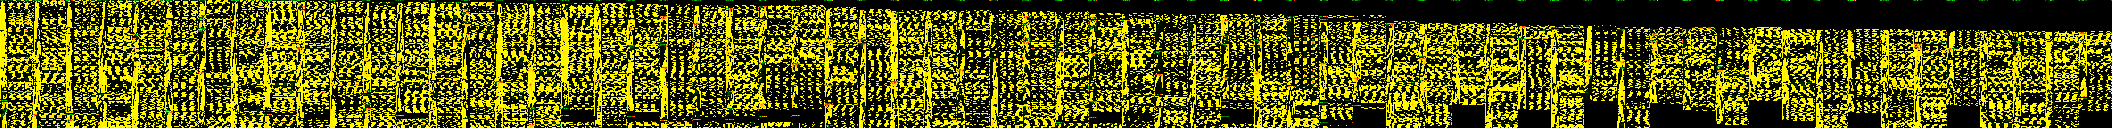
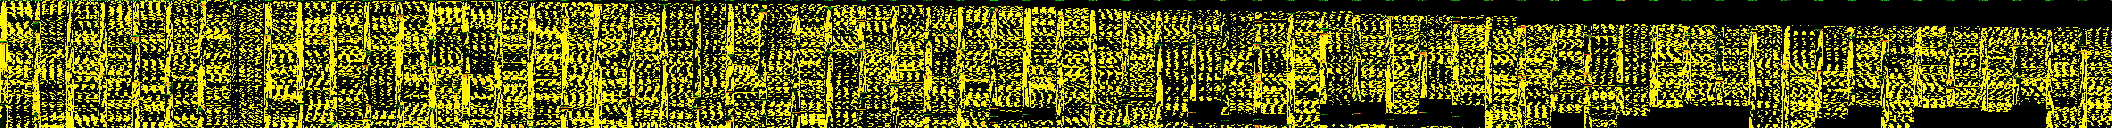
fit the aurora under the bar by inverting the bar overlay

diff --git a/tools/login/fit_aurora.py b/tools/login/fit_aurora.py
@@ -8,7 +8,8 @@ d = perpendicular distance to the centreline y = Y_i(x); Y_i and the per-channel
 A_i(x) are cubic B-splines over x (aurora_common.KX control points)."""
 import sys, os, time, numpy as np, scipy.sparse.linalg as spl, cv2
 sys.path.insert(0, os.path.dirname(os.path.abspath(__file__)))
-from aurora_common import XS, YS, KX, BXH, DXH, mask_half, load_half
+from aurora_common import XS, YS, KX, BXH, DXH, mask_half, load_half, fit_target, to_half
+from concurrent.futures import ProcessPoolExecutor
 from bspline import basis, laplacian, NX, NY
 
 args = sys.argv[1:]
@@ -35,13 +36,17 @@ LAP = laplacian()
 LT = (LAP.T @ LAP)
 
 
-def fit_coarse(img, m):
-    """img: (360,480,3) float, m: (360,480) bool -> grid (NY,NX,3)"""
-    q = img.reshape(180, 2, 240, 2, 3).mean((1, 3)).reshape(-1, 3)
-    mq = m.reshape(180, 2, 240, 2).all((1, 3)).ravel()
-    Bm = B4[mq]
-    solve = spl.factorized((Bm.T @ Bm + 0.02 * LT).tocsc())
-    return np.stack([solve(Bm.T @ q[mq, c]) for c in range(3)], -1).reshape(NY, NX, 3)
+def fit_coarse(img, w):
+    """img: (360,480,3) float, w: (360,480) weights in 0..1 -> grid (NY,NX,3)"""
+    w4 = w.reshape(180, 2, 240, 2)
+    ws = w4.sum((1, 3))
+    q = ((img.reshape(180, 2, 240, 2, 3) * w4[..., None]).sum((1, 3)) / np.maximum(ws, 1e-6)[..., None]).reshape(-1, 3)
+    wq = (ws / 4).ravel()
+    sel = wq > 1e-4
+    Bm = B4[sel]
+    Bw = Bm.multiply(wq[sel][:, None]).tocsr()
+    solve = spl.factorized((Bw.T @ Bm + 0.02 * LT).tocsc())
+    return np.stack([solve(Bw.T @ q[sel, c]) for c in range(3)], -1).reshape(NY, NX, 3)
 
 
 def eval_coarse(grid):
@@ -156,7 +161,7 @@ def ridge_map(r, W):
     # orientation: eigenvector of lmin; keep near-horizontal lines (|angle| < 50 deg)
     ang = 0.5 * np.arctan2(2 * rxy, rxx - ryy)    # orientation of the max-curvature axis
     horiz = np.abs(np.cos(ang)) < np.cos(np.radians(40))  # curvature axis mostly vertical
-    resp = resp * horiz * cv2.erode(W.astype(np.uint8), np.ones((5, 5), np.uint8))
+    resp = resp * horiz * cv2.erode((W > 0.5).astype(np.uint8), np.ones((5, 5), np.uint8))
     return resp, rs
 
 
@@ -247,9 +252,16 @@ def greedy_add(R, T, W, max_new, thr):
     return added
 
 
+TW = {}  # key -> (target, weight) at half res (see aurora_common.fit_target)
+
+
+def prep(n):
+    t, w = to_half(*fit_target(n))
+    return n, t.astype(np.float32), w.astype(np.float32)
+
+
 def fit_key(n, R, coarse_grid, prior_R, grow=True):
-    f = np.asarray(half[n - 1], np.float32)
-    W = mask_half(n).astype(np.float32)
+    f, W = TW[n]
     base = eval_coarse(coarse_grid)
     T = f - base
     T_all = T - render_all(R)
@@ -295,9 +307,13 @@ def fit_key(n, R, coarse_grid, prior_R, grow=True):
 def main():
     t0 = time.time()
     # round 0 coarse: plain fit
+    with ProcessPoolExecutor(10) as ex:
+        for n, t, w in ex.map(prep, KEYS, chunksize=4):
+            TW[n] = (t, w)
+    print('targets ready %.1fs' % (time.time() - t0), flush=True)
     coarse = {}
     for n in KEYS:
-        coarse[n] = fit_coarse(np.asarray(half[n - 1], np.float32), mask_half(n))
+        coarse[n] = fit_coarse(*TW[n])
     print('coarse0 done %.1fs' % (time.time() - t0), flush=True)
     hist = {}
     for rnd in range(ROUNDS):
@@ -316,8 +332,8 @@ def main():
                 print(f'round {rnd} key {n}: active {sum(r[3] for r in R)} added {added} resid {e:.2f}  {time.time()-t0:.0f}s', flush=True)
         # refit coarse with ribbons removed
         for n in KEYS:
-            f = np.asarray(half[n - 1], np.float32)
-            coarse[n] = fit_coarse(f - render_all(hist[n]), mask_half(n))
+            f, w = TW[n]
+            coarse[n] = fit_coarse(f - render_all(hist[n]), w)
         print(f'round {rnd} coarse refit {time.time()-t0:.0f}s', flush=True)
     keys = KEYS
     P = np.array([[r[0] for r in hist[n]] for n in keys])

diff --git a/tools/login/aurora_common.py b/tools/login/aurora_common.py
@@ -108,3 +108,80 @@ def bx_basis(xs):
 
 
 BXH, DXH = bx_basis(XS)  # half-res columns
+
+
+# ---------------------------------------------------------------- bottom bar (translucent overlay)
+BAR_TOP = 572
+_bar = None
+
+
+def bar_overlay_full():
+    """(P, a): premultiplied colour (148,960,3) and alpha (148,960) of public/img/login/bar.png,
+    upsampled across like the browser does (240 cells of 4 px, linear between cell centres)"""
+    global _bar
+    if _bar is None:
+        im = np.asarray(Image.open(os.path.join(ROOT, 'public', 'img', 'login', 'bar.png')).convert('RGBA'), np.float32)
+        a = im[..., 3] / 255
+        P = im[..., :3] * a[..., None]
+        u = (np.arange(960) + 0.5) / 4 - 0.5
+        i0 = np.clip(np.floor(u).astype(int), 0, 239)
+        i1 = np.clip(i0 + 1, 0, 239)
+        f = np.clip(u - np.floor(u), 0, 1)
+        f[u < 0] = 0
+        a2 = a[:, i0] * (1 - f) + a[:, i1] * f
+        P2 = P[:, i0] * (1 - f)[:, None] + P[:, i1] * f[:, None]
+        _bar = (P2, a2)
+    return _bar
+
+
+def tile_centres(n):
+    if n < 168:
+        return [363.2 + 100 * i for i in range(5)]
+    if n > 200:
+        return [341.5, 438.3, 535, 631.7]
+    return None
+
+
+def bar_ui_mask(n):
+    """True = no UI in front of the aurora+bar at this pixel (rows BAR_TOP..719 of the stage)"""
+    m = np.ones((720, 960), bool)
+    m[:BAR_TOP] = False
+    m[615:692, 30:102] = False          # Shut Down
+    m[624:666, 815:935] = False         # clock
+    cs = tile_centres(n)
+    if cs is None:
+        m[590:696, 300:800] = False     # tiles sliding
+    else:
+        for c in cs:
+            m[596:672, int(c - 38):int(c + 38)] = False
+            m[668:694, int(c - 40):int(c + 40)] = False
+    if 160 <= n <= 202:
+        m[560:720, 300:600] = False
+    cc = cursor_at(n)
+    if cc is not None:
+        x, y = int(cc[0]), int(cc[1])
+        m[max(0, y - 14):y + 34, max(0, x - 14):x + 36] = False
+    return m
+
+
+def fit_target(n, ref=None):
+    """full-res (target, weight) for fitting the aurora to reference frame n: the plain
+    background where visible (weight 1) and, under the bar, the aurora recovered by inverting
+    the overlay (ref = (1-a) aurora + a C), weighted by (1-a)^2 where a < 0.85"""
+    if ref is None:
+        ref = np.asarray(Image.open(os.path.join(REF, f'f{n:05d}.png')).convert('RGB'), np.float32)
+    T = ref.copy()
+    W = mask_full(n).astype(np.float32)
+    P, a = bar_overlay_full()
+    keep = bar_ui_mask(n)[BAR_TOP:] & (a < 0.85)
+    inv = (ref[BAR_TOP:] - P) / np.maximum(1 - a, 0.15)[..., None]
+    T[BAR_TOP:] = np.where(keep[..., None], inv, ref[BAR_TOP:])
+    W[BAR_TOP:] = np.where(keep, (1 - a) ** 2, 0)
+    return T, W
+
+
+def to_half(T, W):
+    w4 = W.reshape(360, 2, 480, 2)
+    ws = w4.sum((1, 3))
+    t = (T.reshape(360, 2, 480, 2, 3) * w4[..., None]).sum((1, 3)) / np.maximum(ws, 1e-6)[..., None]
+    return t, ws / 4

diff --git a/tools/login/bg_rmse.py b/tools/login/bg_rmse.py
@@ -4,14 +4,14 @@ usage: bg_rmse.py <frames spec> --cap dir [--blur 1] [--sheet out.png]"""
 import sys, os, numpy as np, cv2
 from PIL import Image
 sys.path.insert(0, os.path.dirname(os.path.abspath(__file__)))
-from aurora_common import mask_full, REF
+from aurora_common import mask_full, bar_ui_mask, REF
 
 args = sys.argv[1:]
 def opt(n, d=None):
     if n in args:
         i = args.index(n); v = args[i + 1]; del args[i:i + 2]; return v
     return d
-cap = opt('--cap'); blur = float(opt('--blur', 1)); sheet = opt('--sheet')
+cap = opt('--cap'); blur = float(opt('--blur', 1)); sheet = opt('--sheet'); region = opt('--region', 'bg')
 frames = []
 for part in args[0].split(','):
     step = 1
@@ -30,7 +30,7 @@ for n in frames:
     c = np.asarray(Image.open(cp).convert('RGB'), np.float32)
     if blur:
         r = cv2.GaussianBlur(r, (0, 0), blur); c = cv2.GaussianBlur(c, (0, 0), blur)
-    m = mask_full(n)
+    m = bar_ui_mask(n) if region == 'bar' else mask_full(n)
     e = float(np.sqrt((((r - c) ** 2).mean(2) * m).sum() / m.sum()))
     for rg in ranges:
         if rg[0] <= n <= rg[1]:
